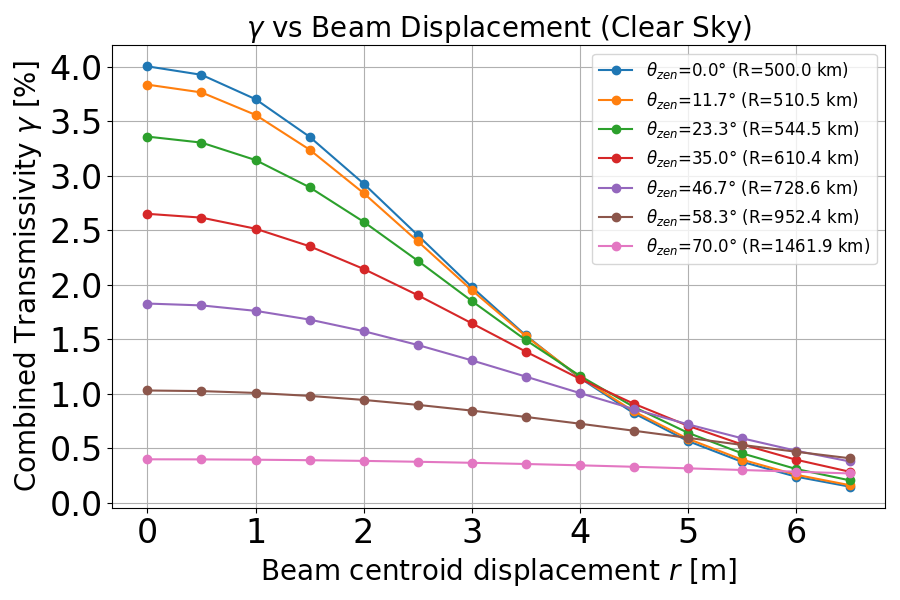
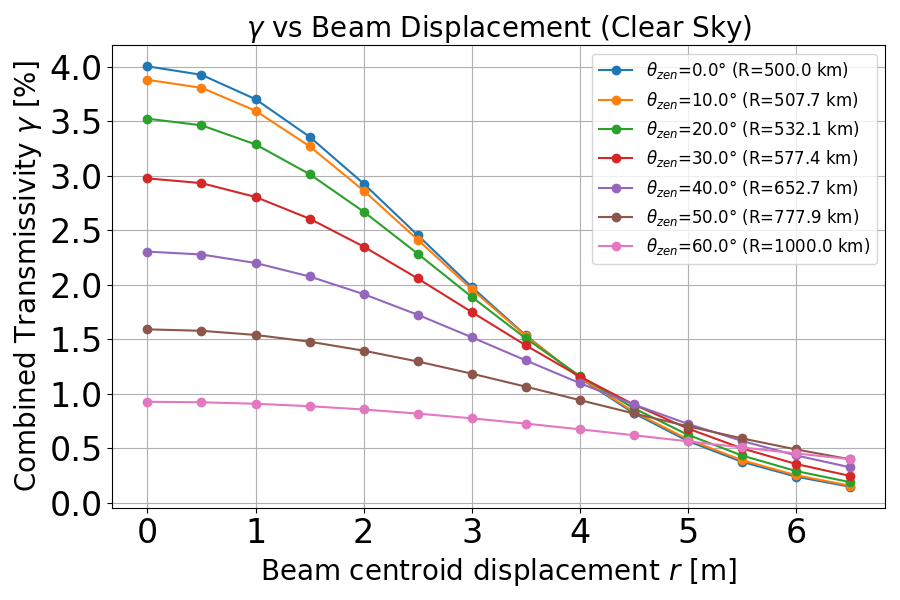
simulate combined transmittance

diff --git a/BB84/SimulationResult/Circle_beam/Transmittance/gamma_theta_zen.py b/BB84/SimulationResult/Circle_beam/Transmittance/gamma_theta_zen.py
@@ -27,12 +27,14 @@ from atmospheric_transmissivity import transmissivity_etat
     # M_T : Earth's mass
     # D_E : Earth's radius (km)
     # h_s : Satellite's altitude
+    # H_a : Receiver's altitude
     #======================#
 a = 0.75             
 G = 6.67430e-11       
 M_T = 5.972e24      
 D_E = 6378e3       
 h_s = 500e3       
+H_a = 0.01
 
 d_o = D_E + h_s
 omega = math.sqrt(G * M_T / d_o**3)
@@ -75,15 +77,13 @@ def main():
 
         gamma_percent_list = []
 
-        for theta_rad in theta_list:
-            # 角度→時間へ
-            t = theta_rad / omega
+        for theta_zen_rad in theta_list:
             # ビームウエスト計算
-            waist = beam_waist(h_s, t)
+            waist = beam_waist(h_s, H_a, theta_zen_rad)
             # eta_b (指向ずれ損失)
             eta_b = transmissivity_etab(a, r_fixed, waist)
             # eta_t (大気透過率)
-            eta_t = transmissivity_etat(tau_zen, abs(math.degrees(theta_rad)))
+            eta_t = transmissivity_etat(tau_zen, theta_zen_rad)
 
             # γ = η_b × η_t（[%] に変換）
             gamma_percent = eta_b * eta_t * 100

diff --git a/BB84/SimulationResult/Circle_beam/Transmittance/gamma_displacement_zenith_angle.py b/BB84/SimulationResult/Circle_beam/Transmittance/gamma_displacement_zenith_angle.py
@@ -48,7 +48,7 @@ def main():
 
     # --- θ_p の範囲設定 ---
     theta_min = math.radians(0)     # 0°
-    theta_max = math.radians(70)    # 10°
+    theta_max = math.radians(60)    # 10°
     theta_list = np.linspace(theta_min, theta_max, 7)
     # t_list = [theta / omega for theta in theta_list]
 
